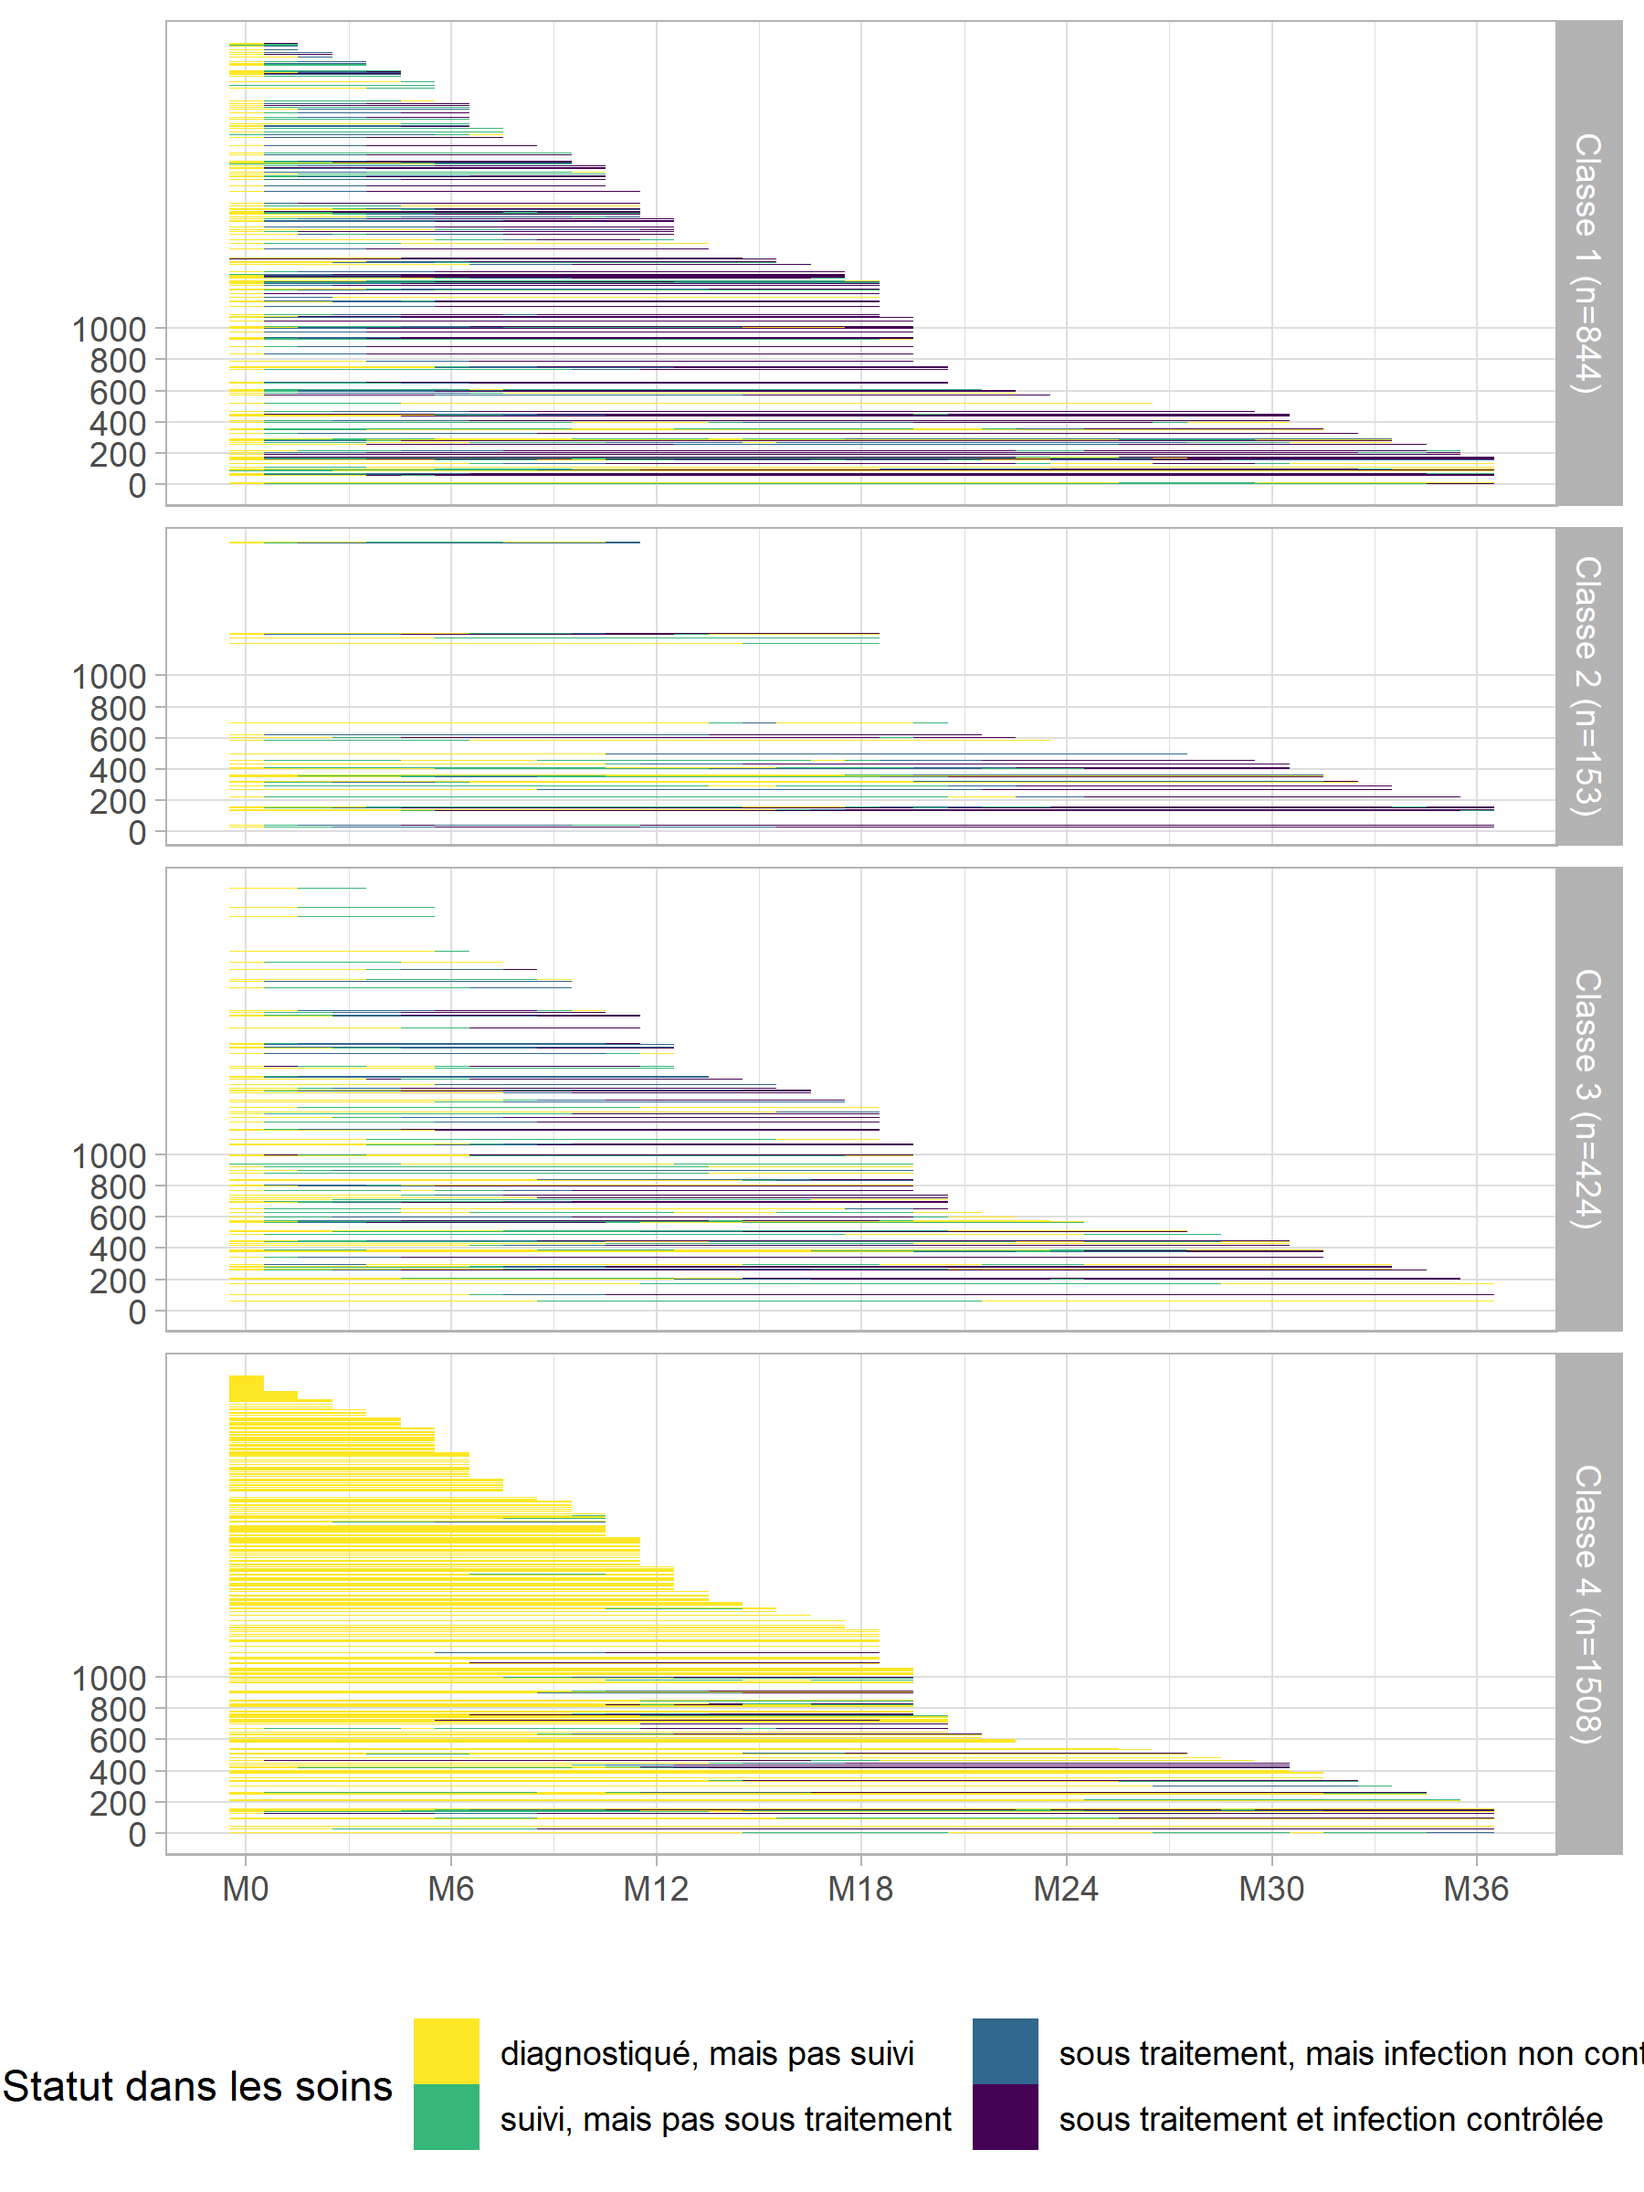
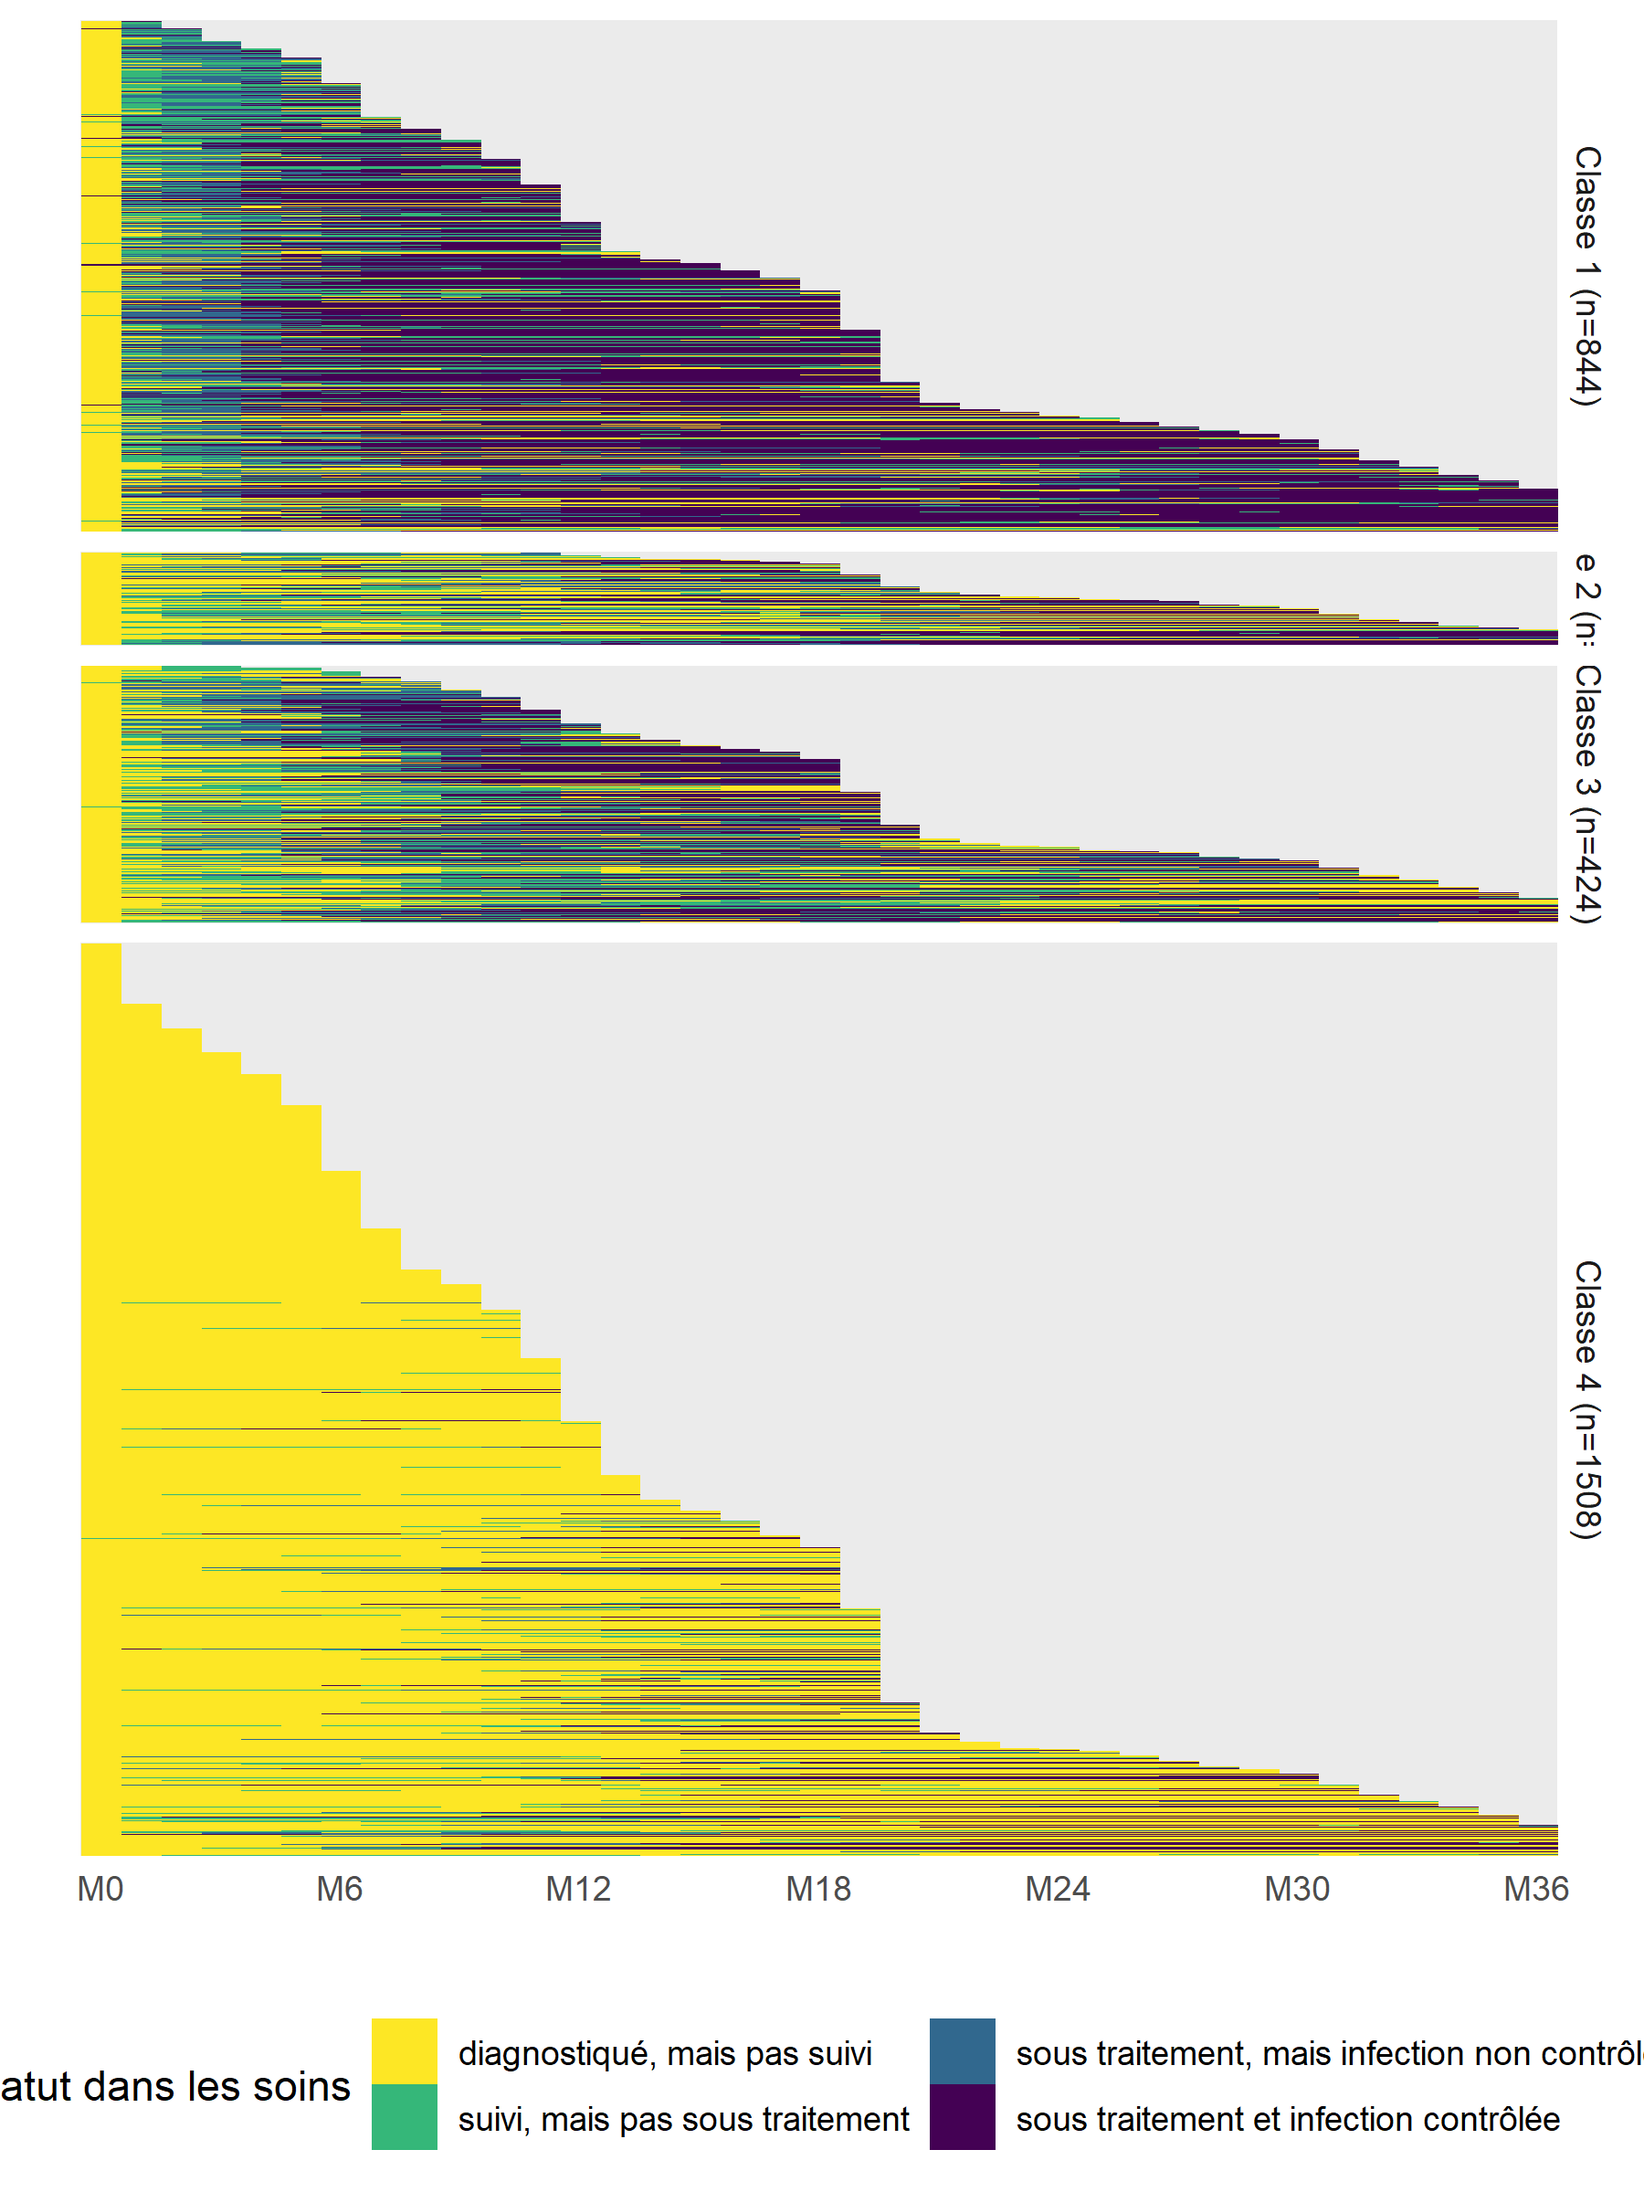
update

diff --git a/trajectoires-de-soins.html b/trajectoires-de-soins.html
@@ -13,7 +13,7 @@
 
 <title>Trajectoires de soins : un exemple de données longitudinales</title>
 
-<script src="libs/header-attrs-2.7/header-attrs.js"></script>
+<script src="libs/header-attrs-2.8/header-attrs.js"></script>
 <script src="libs/jquery-1.11.3/jquery.min.js"></script>
 <meta name="viewport" content="width=device-width, initial-scale=1" />
 <link href="libs/bootstrap-3.3.5/css/paper.min.css" rel="stylesheet" />
@@ -823,7 +823,7 @@ Total               49365 100.0</code></pre>
 <div id="une-première-analyse-de-séquences-sur-lensemble-du-fichier" class="section level2">
 <h2>Une première analyse de séquences sur l’ensemble du fichier</h2>
 <p>L’<dfn>analyse de séquences</dfn><dfn data-index="séquence, analyse"></dfn> permet d’appréhender l’ensemble de la trajectoire de soins à travers la succession des états dans lesquels se trouvent les patients observés.</p>
-<p>Nous allons donc réaliser une analyse de séquences (voir le <a href="analyse-de-sequences.html">chapitre dédié</a>) sur l’ensemble de notre fichier. Pour cela, il va falloir préalable que nous transformions nos donnée actuellement dans un format <q>long</q> en un tableau <q>large</q>, c’est-à-dire avec une ligne par individu et une variable différentes par pas de temps. On peut réaliser cela facilement avec <code data-pkg="tidyr">pivot_wider</code> de <code class="pkg">tidyr</code> (voir le <a href="reorganiser-ses-donnees-avec-tidyr.html#spread-disperser-des-lignes">chapitre dédié à <strong>tidyr</strong></a>). Il faut noter que le résultat ne sera pas un tableau <strong>data.table</strong>, d’où le recours à <code data-pkg="data.table">setDT</code> pour convertir le résultat.</p>
+<p>Nous allons donc réaliser une analyse de séquences (voir le <a href="analyse-de-sequences.html">chapitre dédié</a>) sur l’ensemble de notre fichier. Pour cela, il va falloir préalable que nous transformions nos donnée actuellement dans un format <q>long</q> en un tableau <q>large</q>, c’est-à-dire avec une ligne par individu et une variable différentes par pas de temps. On peut réaliser cela facilement avec <code data-pkg="tidyr">pivot_wider</code> de <code class="pkg">tidyr</code> (voir le <a href="reorganiser-ses-donnees-avec-tidyr.html#spread-disperser-des-lignes">chapitre dédié à <strong>tidyr</strong></a>).</p>
 <div class="sourceCode" id="cb23"><pre class="sourceCode r"><code class="sourceCode r"><span id="cb23-1"><a href="#cb23-1" aria-hidden="true" tabindex="-1"></a><span class="fu">library</span>(tidyr)</span>
 <span id="cb23-2"><a href="#cb23-2" aria-hidden="true" tabindex="-1"></a>large <span class="ot">&lt;-</span> care_trajectories <span class="sc">%&gt;%</span></span>
 <span id="cb23-3"><a href="#cb23-3" aria-hidden="true" tabindex="-1"></a>  dplyr<span class="sc">::</span><span class="fu">select</span>(id, <span class="at">m =</span> month, care_status) <span class="sc">%&gt;%</span></span>
@@ -2637,16 +2637,16 @@ prob&gt;0.9  11.26  33.99  21.93   3.51
 <p>Il faut cependant rester vigilant, dans la mesure où ce type de représentation synthétique peut masquer la diversité des trajectoires sous-jacentes, notamment en termes de durée ou d’enchaînement des événements. Même si cela est peut-être plus difficile à lire, il est toujours bon de regarder les tapis de séquences.</p>
 <div class="sourceCode" id="cb110"><pre class="sourceCode r"><code class="sourceCode r"><span id="cb110-1"><a href="#cb110-1" aria-hidden="true" tabindex="-1"></a>care_trajectories <span class="ot">&lt;-</span> care_trajectories <span class="sc">%&gt;%</span></span>
 <span id="cb110-2"><a href="#cb110-2" aria-hidden="true" tabindex="-1"></a>  <span class="fu">group_by</span>(mod4_class) <span class="sc">%&gt;%</span></span>
-<span id="cb110-3"><a href="#cb110-3" aria-hidden="true" tabindex="-1"></a>  <span class="fu">mutate</span>(<span class="at">tmp_rang =</span> <span class="fu">as.integer</span>(<span class="fu">fct_infreq</span>(<span class="fu">factor</span>(id)))) <span class="sc">%&gt;%</span></span>
+<span id="cb110-3"><a href="#cb110-3" aria-hidden="true" tabindex="-1"></a>  <span class="fu">mutate</span>(<span class="at">tmp_rang =</span> <span class="fu">fct_infreq</span>(<span class="fu">factor</span>(id))) <span class="sc">%&gt;%</span></span>
 <span id="cb110-4"><a href="#cb110-4" aria-hidden="true" tabindex="-1"></a>  <span class="fu">ungroup</span>()</span></code></pre></div>
 <div class="sourceCode" id="cb111"><pre class="sourceCode r"><code class="sourceCode r"><span id="cb111-1"><a href="#cb111-1" aria-hidden="true" tabindex="-1"></a><span class="fu">ggplot</span>(care_trajectories <span class="sc">%&gt;%</span> <span class="fu">filter</span>(month <span class="sc">&lt;=</span> <span class="dv">36</span>)) <span class="sc">+</span></span>
 <span id="cb111-2"><a href="#cb111-2" aria-hidden="true" tabindex="-1"></a>  <span class="fu">aes</span>(<span class="at">x =</span> month, <span class="at">y =</span> tmp_rang, <span class="at">fill =</span> care_statusF) <span class="sc">+</span></span>
 <span id="cb111-3"><a href="#cb111-3" aria-hidden="true" tabindex="-1"></a>  <span class="fu">geom_raster</span>() <span class="sc">+</span></span>
 <span id="cb111-4"><a href="#cb111-4" aria-hidden="true" tabindex="-1"></a>  <span class="fu">facet_grid</span>(mod4_class2 <span class="sc">~</span> ., <span class="at">space =</span> <span class="st">&quot;free&quot;</span>, <span class="at">scales =</span> <span class="st">&quot;free&quot;</span>) <span class="sc">+</span></span>
-<span id="cb111-5"><a href="#cb111-5" aria-hidden="true" tabindex="-1"></a>  <span class="fu">scale_x_continuous</span>(<span class="at">breaks =</span> <span class="dv">0</span><span class="sc">:</span><span class="dv">6</span><span class="sc">*</span><span class="dv">6</span>, <span class="at">labels =</span> <span class="fu">paste0</span>(<span class="st">&quot;M&quot;</span>, <span class="dv">0</span><span class="sc">:</span><span class="dv">6</span><span class="sc">*</span><span class="dv">6</span>)) <span class="sc">+</span></span>
-<span id="cb111-6"><a href="#cb111-6" aria-hidden="true" tabindex="-1"></a>  <span class="fu">scale_y_continuous</span>(<span class="at">breaks =</span> <span class="dv">0</span><span class="sc">:</span><span class="dv">5</span><span class="sc">*</span><span class="dv">200</span>, <span class="at">minor_breaks =</span> <span class="cn">NULL</span>) <span class="sc">+</span></span>
+<span id="cb111-5"><a href="#cb111-5" aria-hidden="true" tabindex="-1"></a>  <span class="fu">scale_x_continuous</span>(<span class="at">breaks =</span> <span class="dv">0</span><span class="sc">:</span><span class="dv">6</span><span class="sc">*</span><span class="dv">6</span>, <span class="at">labels =</span> <span class="fu">paste0</span>(<span class="st">&quot;M&quot;</span>, <span class="dv">0</span><span class="sc">:</span><span class="dv">6</span><span class="sc">*</span><span class="dv">6</span>), <span class="at">expand =</span> <span class="fu">c</span>(<span class="dv">0</span>, <span class="dv">0</span>)) <span class="sc">+</span></span>
+<span id="cb111-6"><a href="#cb111-6" aria-hidden="true" tabindex="-1"></a>  <span class="fu">scale_y_discrete</span>(<span class="at">labels =</span> <span class="cn">NULL</span>) <span class="sc">+</span></span>
 <span id="cb111-7"><a href="#cb111-7" aria-hidden="true" tabindex="-1"></a>  <span class="fu">xlab</span>(<span class="st">&quot;&quot;</span>) <span class="sc">+</span> <span class="fu">ylab</span>(<span class="st">&quot;&quot;</span>) <span class="sc">+</span></span>
-<span id="cb111-8"><a href="#cb111-8" aria-hidden="true" tabindex="-1"></a>  <span class="fu">theme_light</span>() <span class="sc">+</span></span>
+<span id="cb111-8"><a href="#cb111-8" aria-hidden="true" tabindex="-1"></a>  <span class="fu">theme_minimal</span>() <span class="sc">+</span></span>
 <span id="cb111-9"><a href="#cb111-9" aria-hidden="true" tabindex="-1"></a>  <span class="fu">theme</span>(<span class="at">legend.position =</span> <span class="st">&quot;bottom&quot;</span>) <span class="sc">+</span></span>
 <span id="cb111-10"><a href="#cb111-10" aria-hidden="true" tabindex="-1"></a>  <span class="fu">labs</span>(<span class="at">fill =</span> <span class="st">&quot;Statut dans les soins&quot;</span>) <span class="sc">+</span> </span>
 <span id="cb111-11"><a href="#cb111-11" aria-hidden="true" tabindex="-1"></a>  <span class="fu">scale_fill_viridis</span>(<span class="at">discrete =</span> <span class="cn">TRUE</span>, <span class="at">direction =</span> <span class="sc">-</span><span class="dv">1</span>) <span class="sc">+</span></span>

diff --git a/libs/navigation-1.1/codefolding.js b/libs/navigation-1.1/codefolding.js
@@ -23,7 +23,6 @@ window.initializeCodeFolding = function(show) {
     // create a collapsable div to wrap the code in
     var div = $('<div class="collapse r-code-collapse"></div>');
     var showThis = (show || $(this).hasClass('fold-show')) && !$(this).hasClass('fold-hide');
-    if (showThis) div.collapse('show');
     var id = 'rcode-643E0F36' + currentIndex++;
     div.attr('id', id);
     $(this).before(div);
@@ -47,13 +46,27 @@ window.initializeCodeFolding = function(show) {
 
     div.before(buttonRow);
 
+    // show the div if necessary
+    if (showThis) div.collapse('show');
+
     // update state of button on show/hide
-    div.on('hidden.bs.collapse', function () {
+    //   * Change text
+    //   * add a class for intermediate states styling
+    div.on('hide.bs.collapse', function () {
       showCodeText.text('Code');
+      showCodeButton.addClass('btn-collapsing');
+    });
+    div.on('hidden.bs.collapse', function () {
+      showCodeButton.removeClass('btn-collapsing');
     });
     div.on('show.bs.collapse', function () {
       showCodeText.text('Hide');
+      showCodeButton.addClass('btn-expanding');
     });
+    div.on('shown.bs.collapse', function () {
+      showCodeButton.removeClass('btn-expanding');
+    });
+
   });
 
 }

diff --git a/libs/header-attrs-2.8/header-attrs.js b/libs/header-attrs-2.8/header-attrs.js
@@ -1,0 +1,12 @@
+// Pandoc 2.9 adds attributes on both header and div. We remove the former (to
+// be compatible with the behavior of Pandoc < 2.8).
+document.addEventListener('DOMContentLoaded', function(e) {
+  var hs = document.querySelectorAll("div.section[class*='level'] > :first-child");
+  var i, h, a;
+  for (i = 0; i < hs.length; i++) {
+    h = hs[i];
+    if (!/^h[1-6]$/i.test(h.tagName)) continue;  // it should be a header h1-h6
+    a = h.attributes;
+    while (a.length > 0) h.removeAttribute(a[0].name);
+  }
+});

diff --git a/analyse-des-correspondances-multiples.html b/analyse-des-correspondances-multiples.html
@@ -13,7 +13,7 @@
 
 <title>Analyse des correspondances multiples (ACM)</title>
 
-<script src="libs/header-attrs-2.7/header-attrs.js"></script>
+<script src="libs/header-attrs-2.8/header-attrs.js"></script>
 <script src="libs/jquery-1.11.3/jquery.min.js"></script>
 <meta name="viewport" content="width=device-width, initial-scale=1" />
 <link href="libs/bootstrap-3.3.5/css/paper.min.css" rel="stylesheet" />
